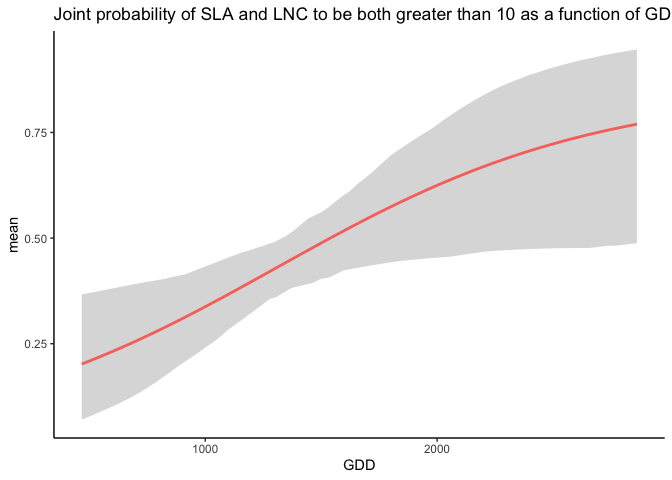
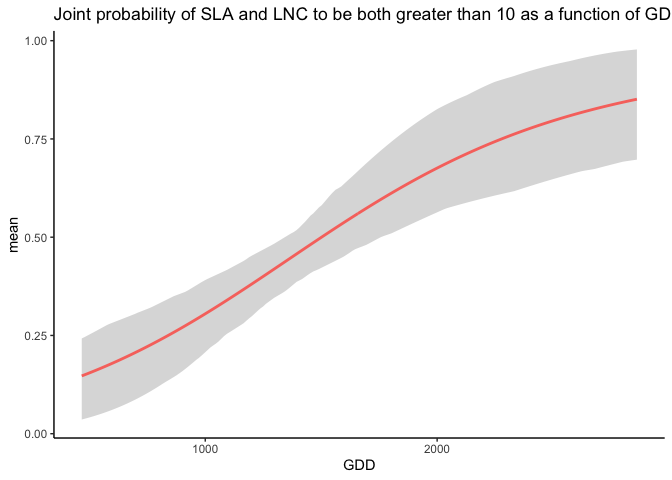
update

diff --git a/vignette/vignette.md b/vignette/vignette.md
@@ -43,7 +43,7 @@ library(devtools)
 install_github("giopogg/jtdm")
 ```
 
-    ## Skipping install of 'jtdm' from a github remote, the SHA1 (ad1b73ec) has not changed since last install.
+    ## Skipping install of 'jtdm' from a github remote, the SHA1 (2d97b3e5) has not changed since last install.
     ##   Use `force = TRUE` to force installation
 
 ``` r
@@ -174,14 +174,14 @@ predictions$R2
 ```
 
     ##       SLA       LNC    Height 
-    ## 0.4817794 0.2773453 0.4737574
+    ## 0.4857956 0.2813487 0.4745638
 
 ``` r
 predictions$RMSE
 ```
 
     ##      SLA      LNC   Height 
-    ## 8.523748 2.957123 9.574219
+    ## 8.487992 2.948744 9.577230
 
 We can evaluate the performances of the model using a K-fold
 cross-validation using the function `jtdmCV`
@@ -195,13 +195,13 @@ predictionsCV$R2
 ```
 
     ##       SLA       LNC    Height 
-    ## 0.4934387 0.2488438 0.4605619
+    ## 0.5613550 0.2598376 0.5018175
 
 ``` r
 predictionsCV$RMSE
 ```
 
-    ## [1]  8.671853  3.074239 10.116165
+    ## [1] 8.078553 3.065515 9.537835
 
 We can now analyse the inferred trait-environment relationships using
 the function `partial_response`, that computes and plots the partial
@@ -259,10 +259,12 @@ advice here to obtain smoother curves).
 ellipse_plot(m,indexTrait = c("SLA","LNC"),indexGradient="GDD")
 ```
 
-![](README_files/figure-gfm/unnamed-chunk-11-1.png)<!-- --> The user can
-also choose to fix the non-focal environmental variables to another
-value. For example, we can obtain the partial response curves of the
-most suitable CLS and envelop of possible CLSs of SLA and GDD in forest.
+![](README_files/figure-gfm/unnamed-chunk-11-1.png)<!-- -->
+
+The user can also choose to fix the non-focal environmental variables to
+another value. For example, we can obtain the partial response curves of
+the most suitable CLS and envelop of possible CLSs of SLA and GDD in
+forest.
 
 ``` r
 # plot the pairwise SLA-LNC partial response curve along the GDD gradient
@@ -295,7 +297,7 @@ joint_trait_prob(m,indexTrait=c("SLA","LNC"), Xnew=X["VCHA_2940",], bounds=list(
 ```
 
     ##         1 
-    ## 0.1403008
+    ## 0.1107953
 
 Unsurprisingly, the probability is low. Then, we compute how this
 probability vary along the GDD gradient using the function
